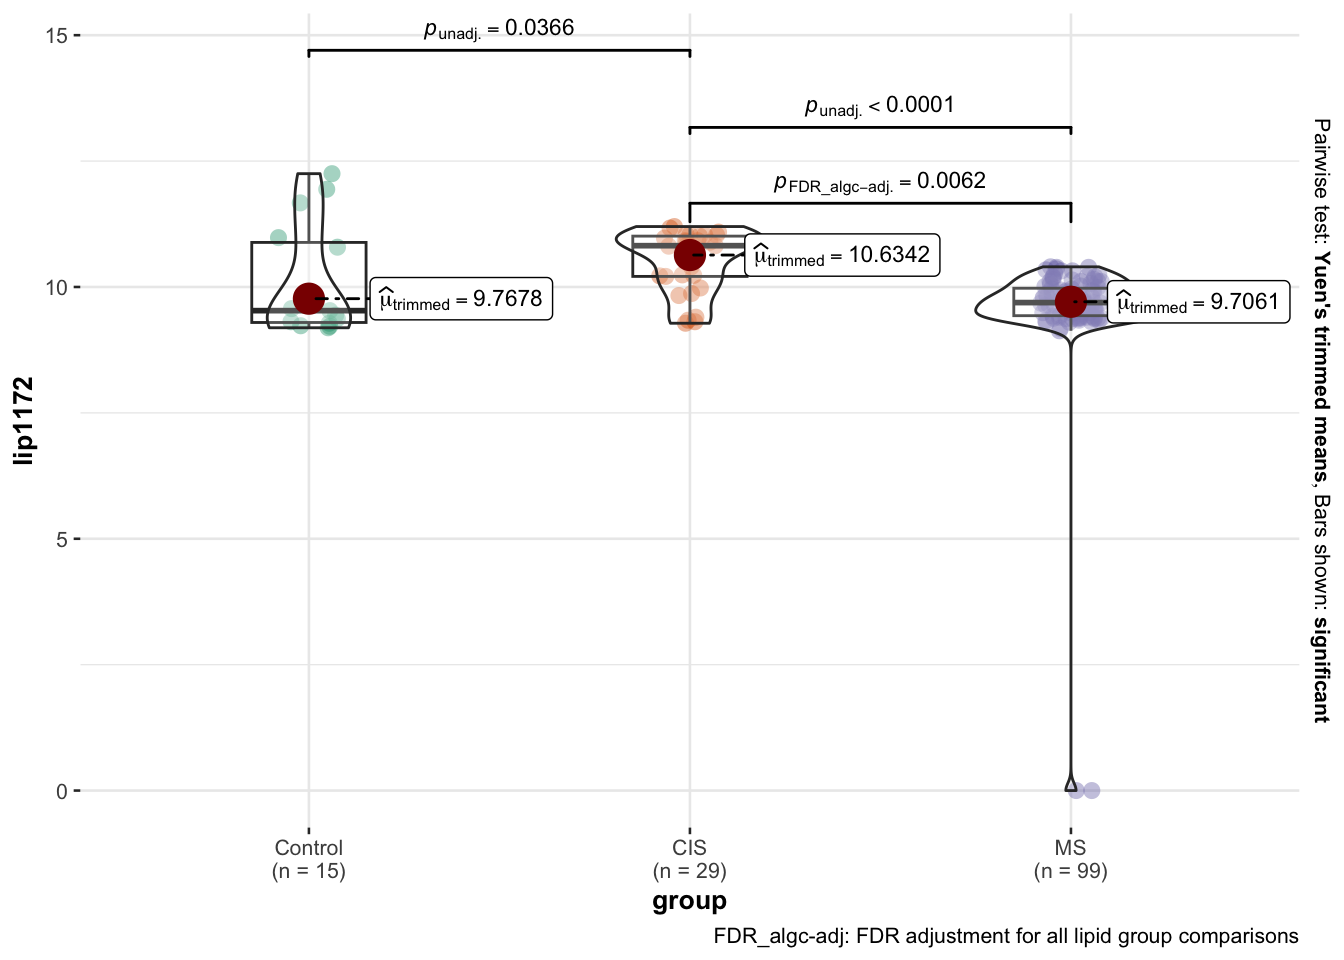
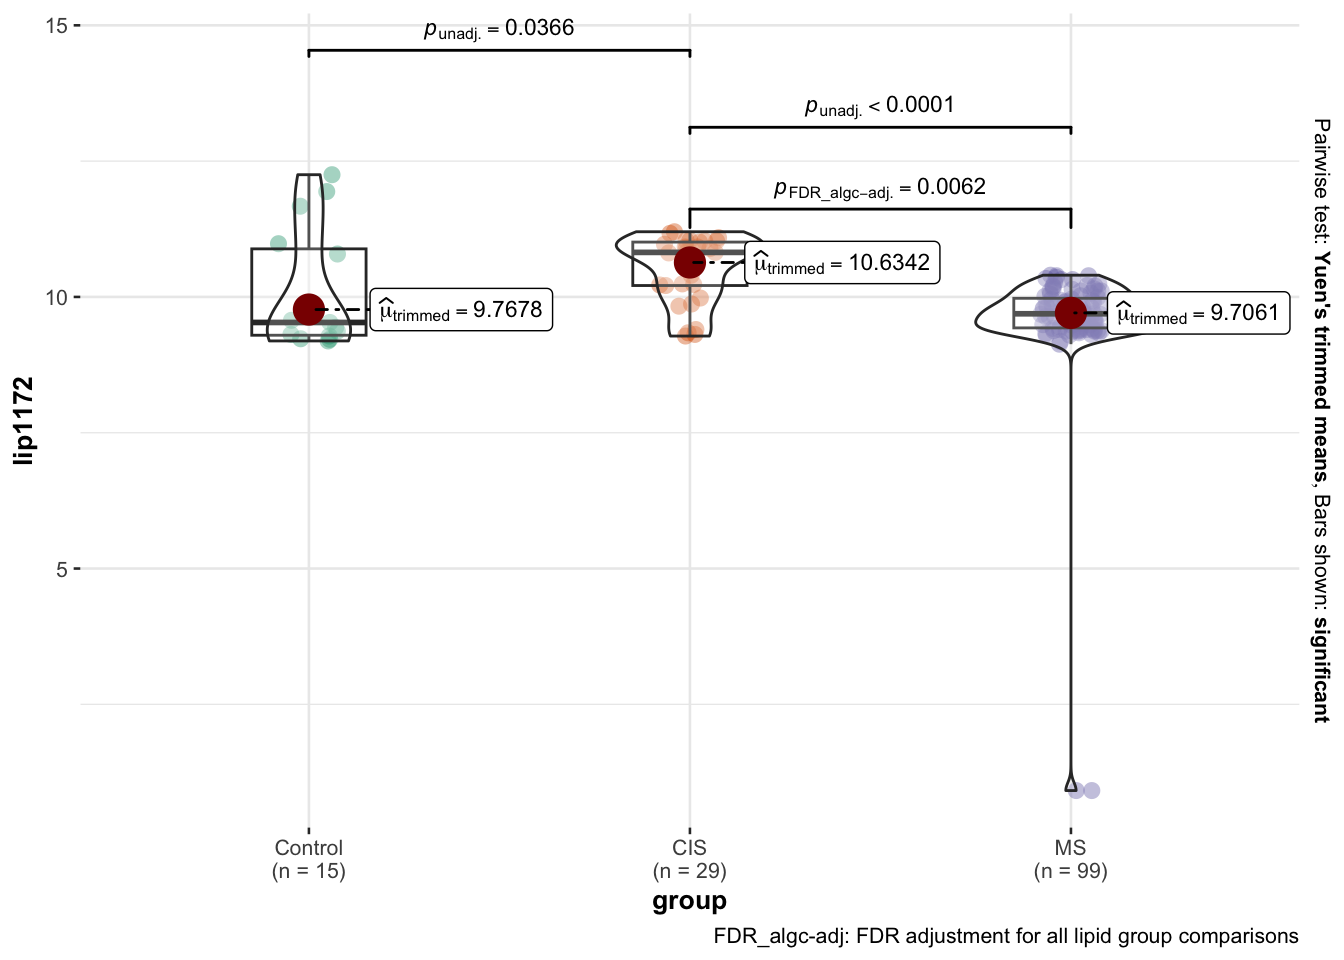
Univariate plots changed non-detecttion value to min over 10.

Changed region(s): [[0.0312, 0.1562, 0.9688, 0.375], [0.2188, 0.1562, 0.25, 0.2188], [0.0312, 0.0, 0.0625, 0.0625]]

diff --git a/docs/modeling_MS.html b/docs/modeling_MS.html
@@ -6,7 +6,7 @@
 
 <meta name="viewport" content="width=device-width, initial-scale=1.0, user-scalable=yes">
 
-<meta name="dcterms.date" content="2025-02-28">
+<meta name="dcterms.date" content="2025-04-20">
 
 <title>MS Project Serum - Modeling &amp; Assessing Lipid Added Value</title>
 <style>
@@ -208,7 +208,7 @@ ul.task-list li input[type="checkbox"] {
     <div>
     <div class="quarto-title-meta-heading">Published</div>
     <div class="quarto-title-meta-contents">
-      <p class="date">February 28, 2025</p>
+      <p class="date">April 20, 2025</p>
     </div>
   </div>
   
@@ -1285,7 +1285,7 @@ Figure&nbsp;2: Actual versus predicted probabilities for the reduced model havin
 <div>
 
 </div>
-<div class="cell quarto-layout-panel" data-layout-align="center" data-layout-ncol="2" data-layout-nrow="2">
+<div class="cell quarto-layout-panel" data-layout-nrow="2" data-layout-ncol="2" data-layout-align="center">
 <div class="quarto-layout-row">
 <div class="quarto-layout-cell" style="flex-basis: 50.0%;justify-content: center;">
 <div class="quarto-figure quarto-figure-center">
@@ -1502,7 +1502,7 @@ Figure&nbsp;3: Distribution of Chi-Square LR statistics from 6 degrees of freedo
 <div>
 
 </div>
-<div class="cell quarto-layout-panel" data-layout-align="center" data-layout-ncol="2" data-layout-nrow="3">
+<div class="cell quarto-layout-panel" data-layout-nrow="3" data-layout-ncol="2" data-layout-align="center">
 <div class="quarto-layout-row">
 <div class="cell-output-display quarto-layout-cell" style="flex-basis: 50.0%;justify-content: center;">
 <div id="fig-models123-calibration-1" class="quarto-figure quarto-figure-center quarto-float anchored" data-fig-align="center">
@@ -1595,7 +1595,7 @@ Figure&nbsp;9: <code>Model 3</code>: Actual versus predicted probabilities for t
 <div>
 
 </div>
-<div class="cell quarto-layout-panel" data-layout-align="center" data-layout-ncol="2" data-layout-nrow="2">
+<div class="cell quarto-layout-panel" data-layout-nrow="2" data-layout-ncol="2" data-layout-align="center">
 <div class="quarto-layout-row">
 <div class="quarto-layout-cell" style="flex-basis: 50.0%;justify-content: center;">
 <div class="quarto-figure quarto-figure-center">
@@ -1639,7 +1639,7 @@ Figure&nbsp;9: <code>Model 3</code>: Actual versus predicted probabilities for t
 <div>
 
 </div>
-<div class="cell quarto-layout-panel" data-layout-align="center" data-layout-ncol="2" data-layout-nrow="1">
+<div class="cell quarto-layout-panel" data-layout-nrow="1" data-layout-ncol="2" data-layout-align="center">
 <div class="quarto-layout-row">
 <div class="quarto-layout-cell" style="flex-basis: 50.0%;justify-content: center;">
 <div class="quarto-figure quarto-figure-center">
@@ -2966,7 +2966,7 @@ Figure&nbsp;17: Risk odds of each variable in <strong><em>Model 4</em></strong>.
 <div>
 
 </div>
-<div class="cell quarto-layout-panel" data-layout-align="center" data-layout-ncol="2" data-layout-nrow="2">
+<div class="cell quarto-layout-panel" data-layout-nrow="2" data-layout-ncol="2" data-layout-align="center">
 <div class="quarto-layout-row">
 <div class="quarto-layout-cell" style="flex-basis: 50.0%;justify-content: center;">
 <div class="quarto-figure quarto-figure-center">
@@ -3912,7 +3912,7 @@ Figure&nbsp;17: Risk odds of each variable in <strong><em>Model 4</em></strong>.
 <img src="modeling_MS_files/figure-html/fig-corrPlot-vars-model4V2-1.png" class="img-fluid quarto-figure quarto-figure-center figure-img" width="960">
 </div>
 <figcaption class="quarto-float-caption-bottom quarto-float-caption quarto-float-fig" id="fig-corrPlot-vars-model4V2-caption-0ceaefa1-69ba-4598-a22c-09a6ac19f8ca">
-Figure&nbsp;18: Correlation plot of <code>61</code> lipid variables included in <strong><em>Model 4V2</em></strong>. With the exception of the unkwown identity lipids <code>lip1172</code> and <code>lip156</code> that were previously seen, the rest of the variables are mostly positively correlated but without exhibiting high correlations i.e.&nbsp;the maximum being close to <code>85%</code> and with only <code>11</code> pairs out of the <code>1,953</code> ones having a correlation higher than <code>70%</code>; note that the data matrix contains many zeroes which also contribute to the lack of high correlations.
+Figure&nbsp;18: Correlation plot of <code>61</code> lipid variables included in a second version of <strong><em>Model 4</em></strong>. With the exception of the unkwown identity lipids <code>lip1172</code> and <code>lip156</code> that were previously seen, the rest of the variables are mostly positively correlated but without exhibiting high correlations i.e.&nbsp;the maximum being close to <code>85%</code> and with only <code>11</code> pairs out of the <code>1,953</code> ones having a correlation higher than <code>70%</code>; note that the data matrix contains many zeroes which also contribute to the lack of high correlations. The lack of high correlations is indicative of a network characterized by low entropy or conditionally independent lipids.
 </figcaption>
 </figure>
 </div>

diff --git a/docs/metaDat_desc_MS.html b/docs/metaDat_desc_MS.html
@@ -6,7 +6,7 @@
 
 <meta name="viewport" content="width=device-width, initial-scale=1.0, user-scalable=yes">
 
-<meta name="dcterms.date" content="2025-02-27">
+<meta name="dcterms.date" content="2025-04-20">
 
 <title>MS Project Serum - Data Description/Processing - MS Meta Data &amp; Lipids</title>
 <style>
@@ -209,7 +209,7 @@ window.Quarto = {
     <div>
     <div class="quarto-title-meta-heading">Published</div>
     <div class="quarto-title-meta-contents">
-      <p class="date">February 27, 2025</p>
+      <p class="date">April 20, 2025</p>
     </div>
   </div>
   
